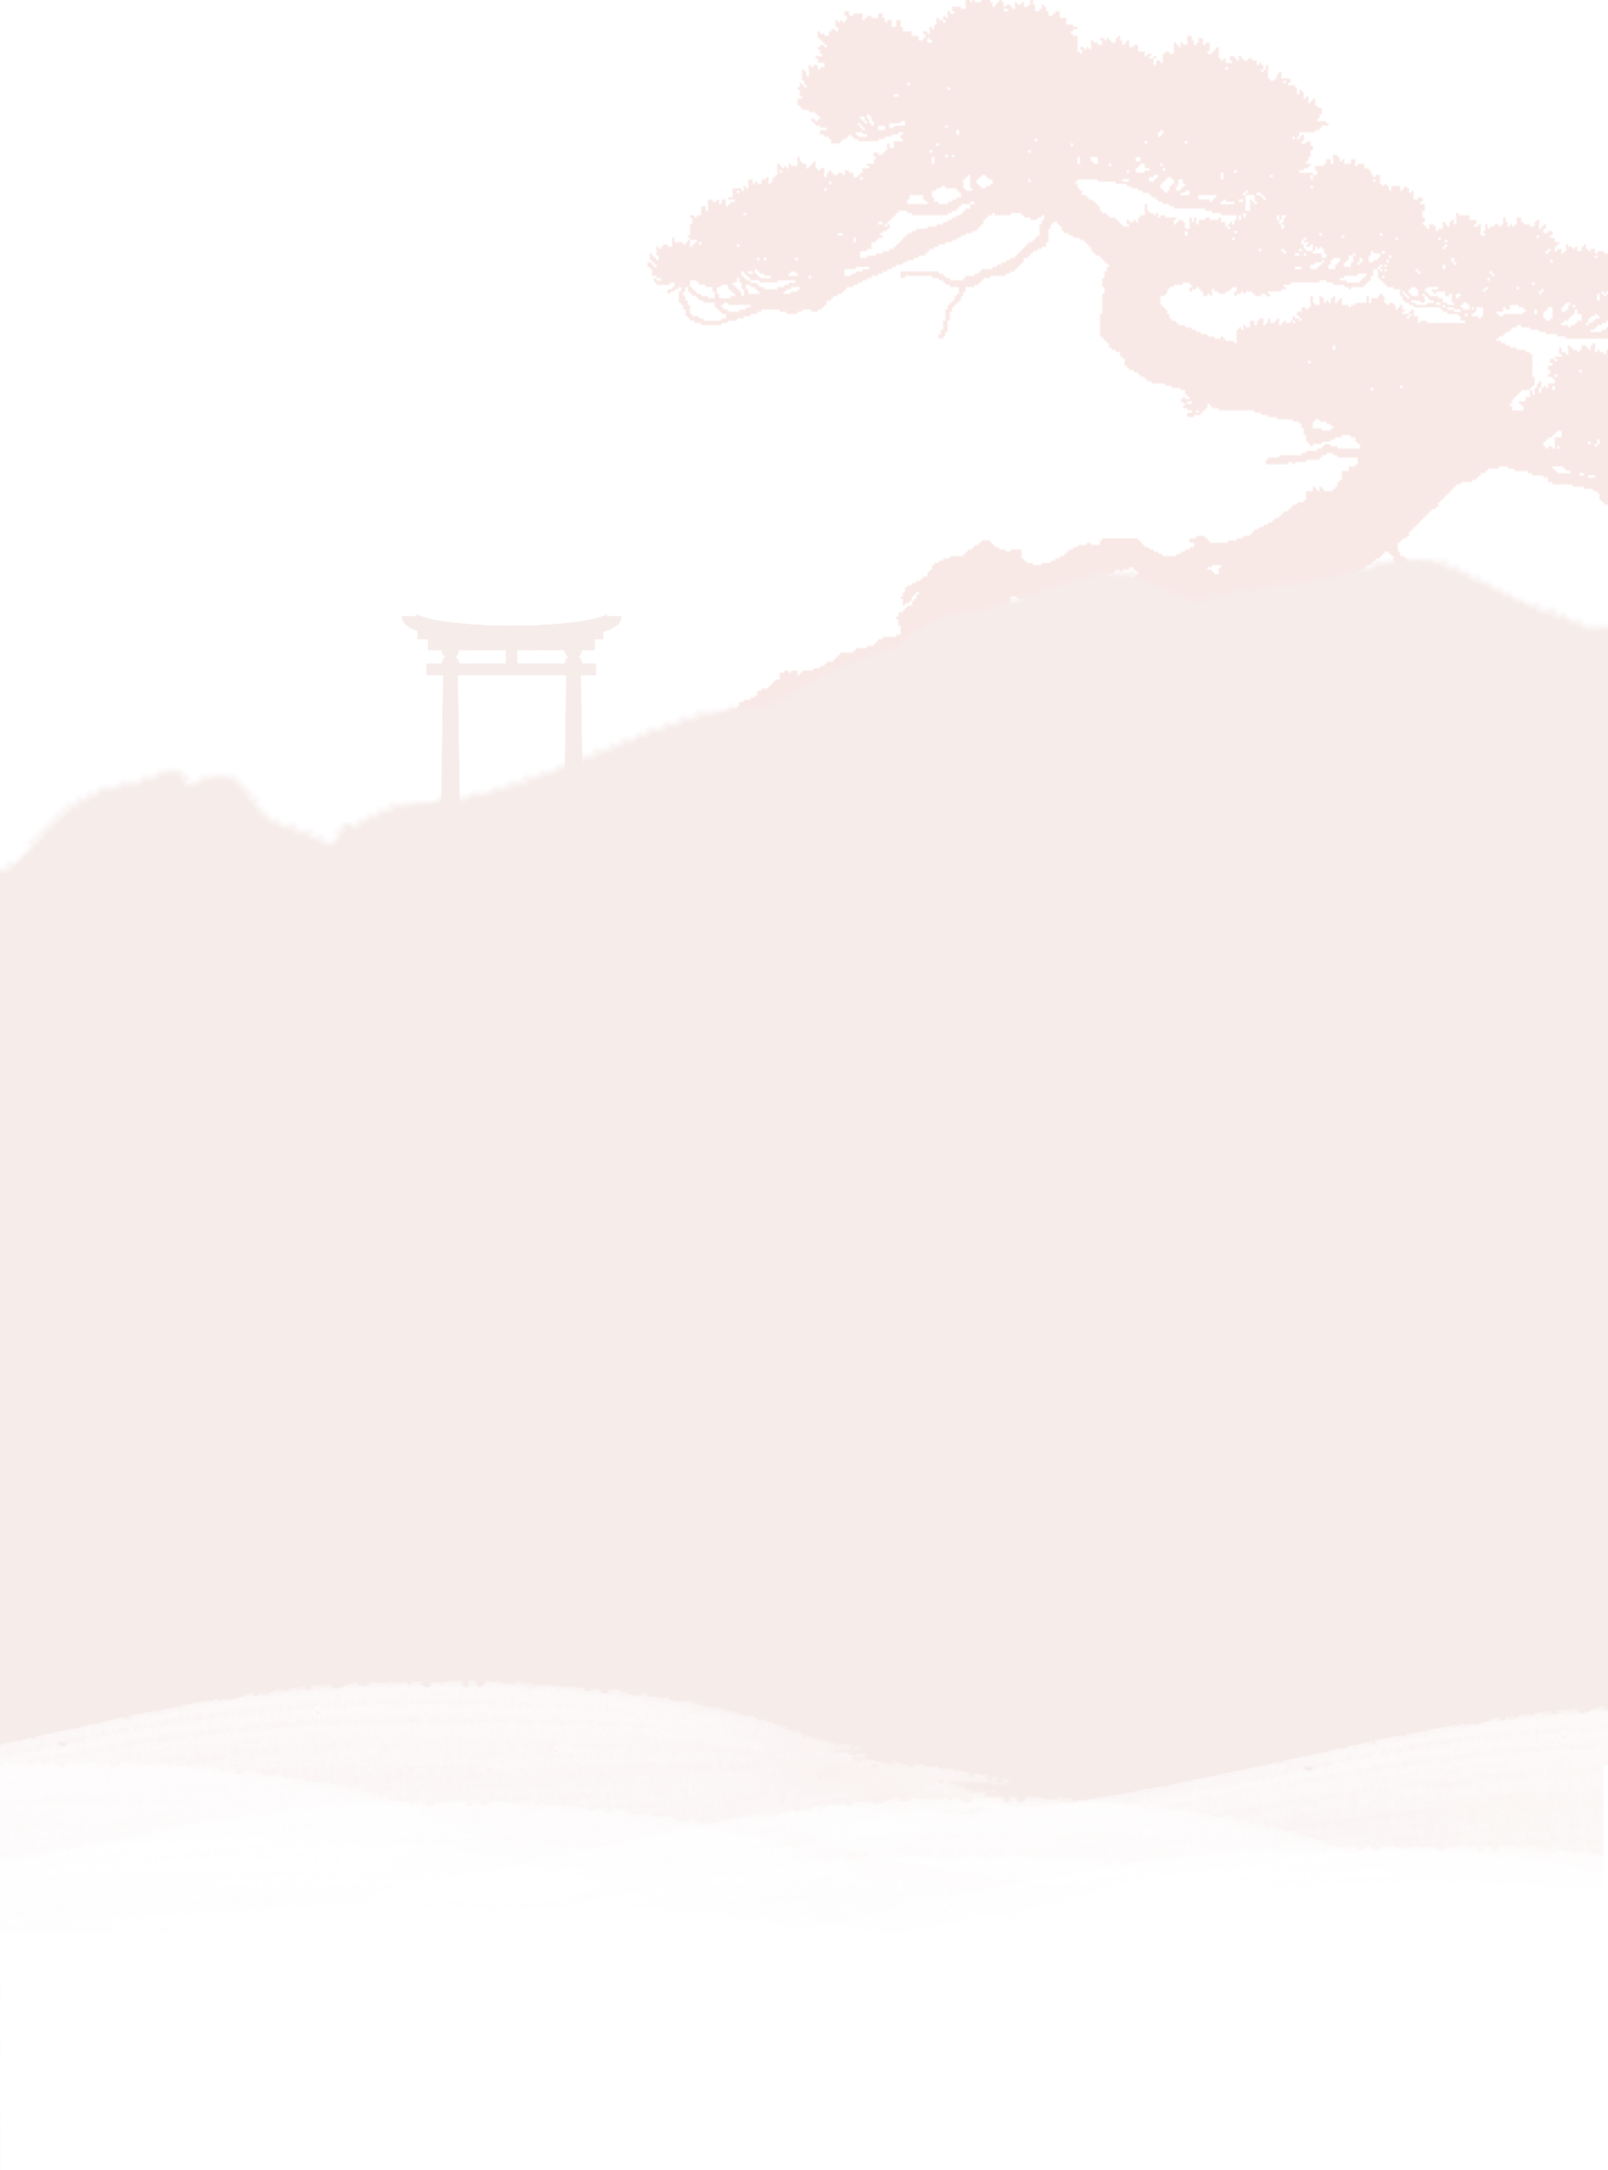
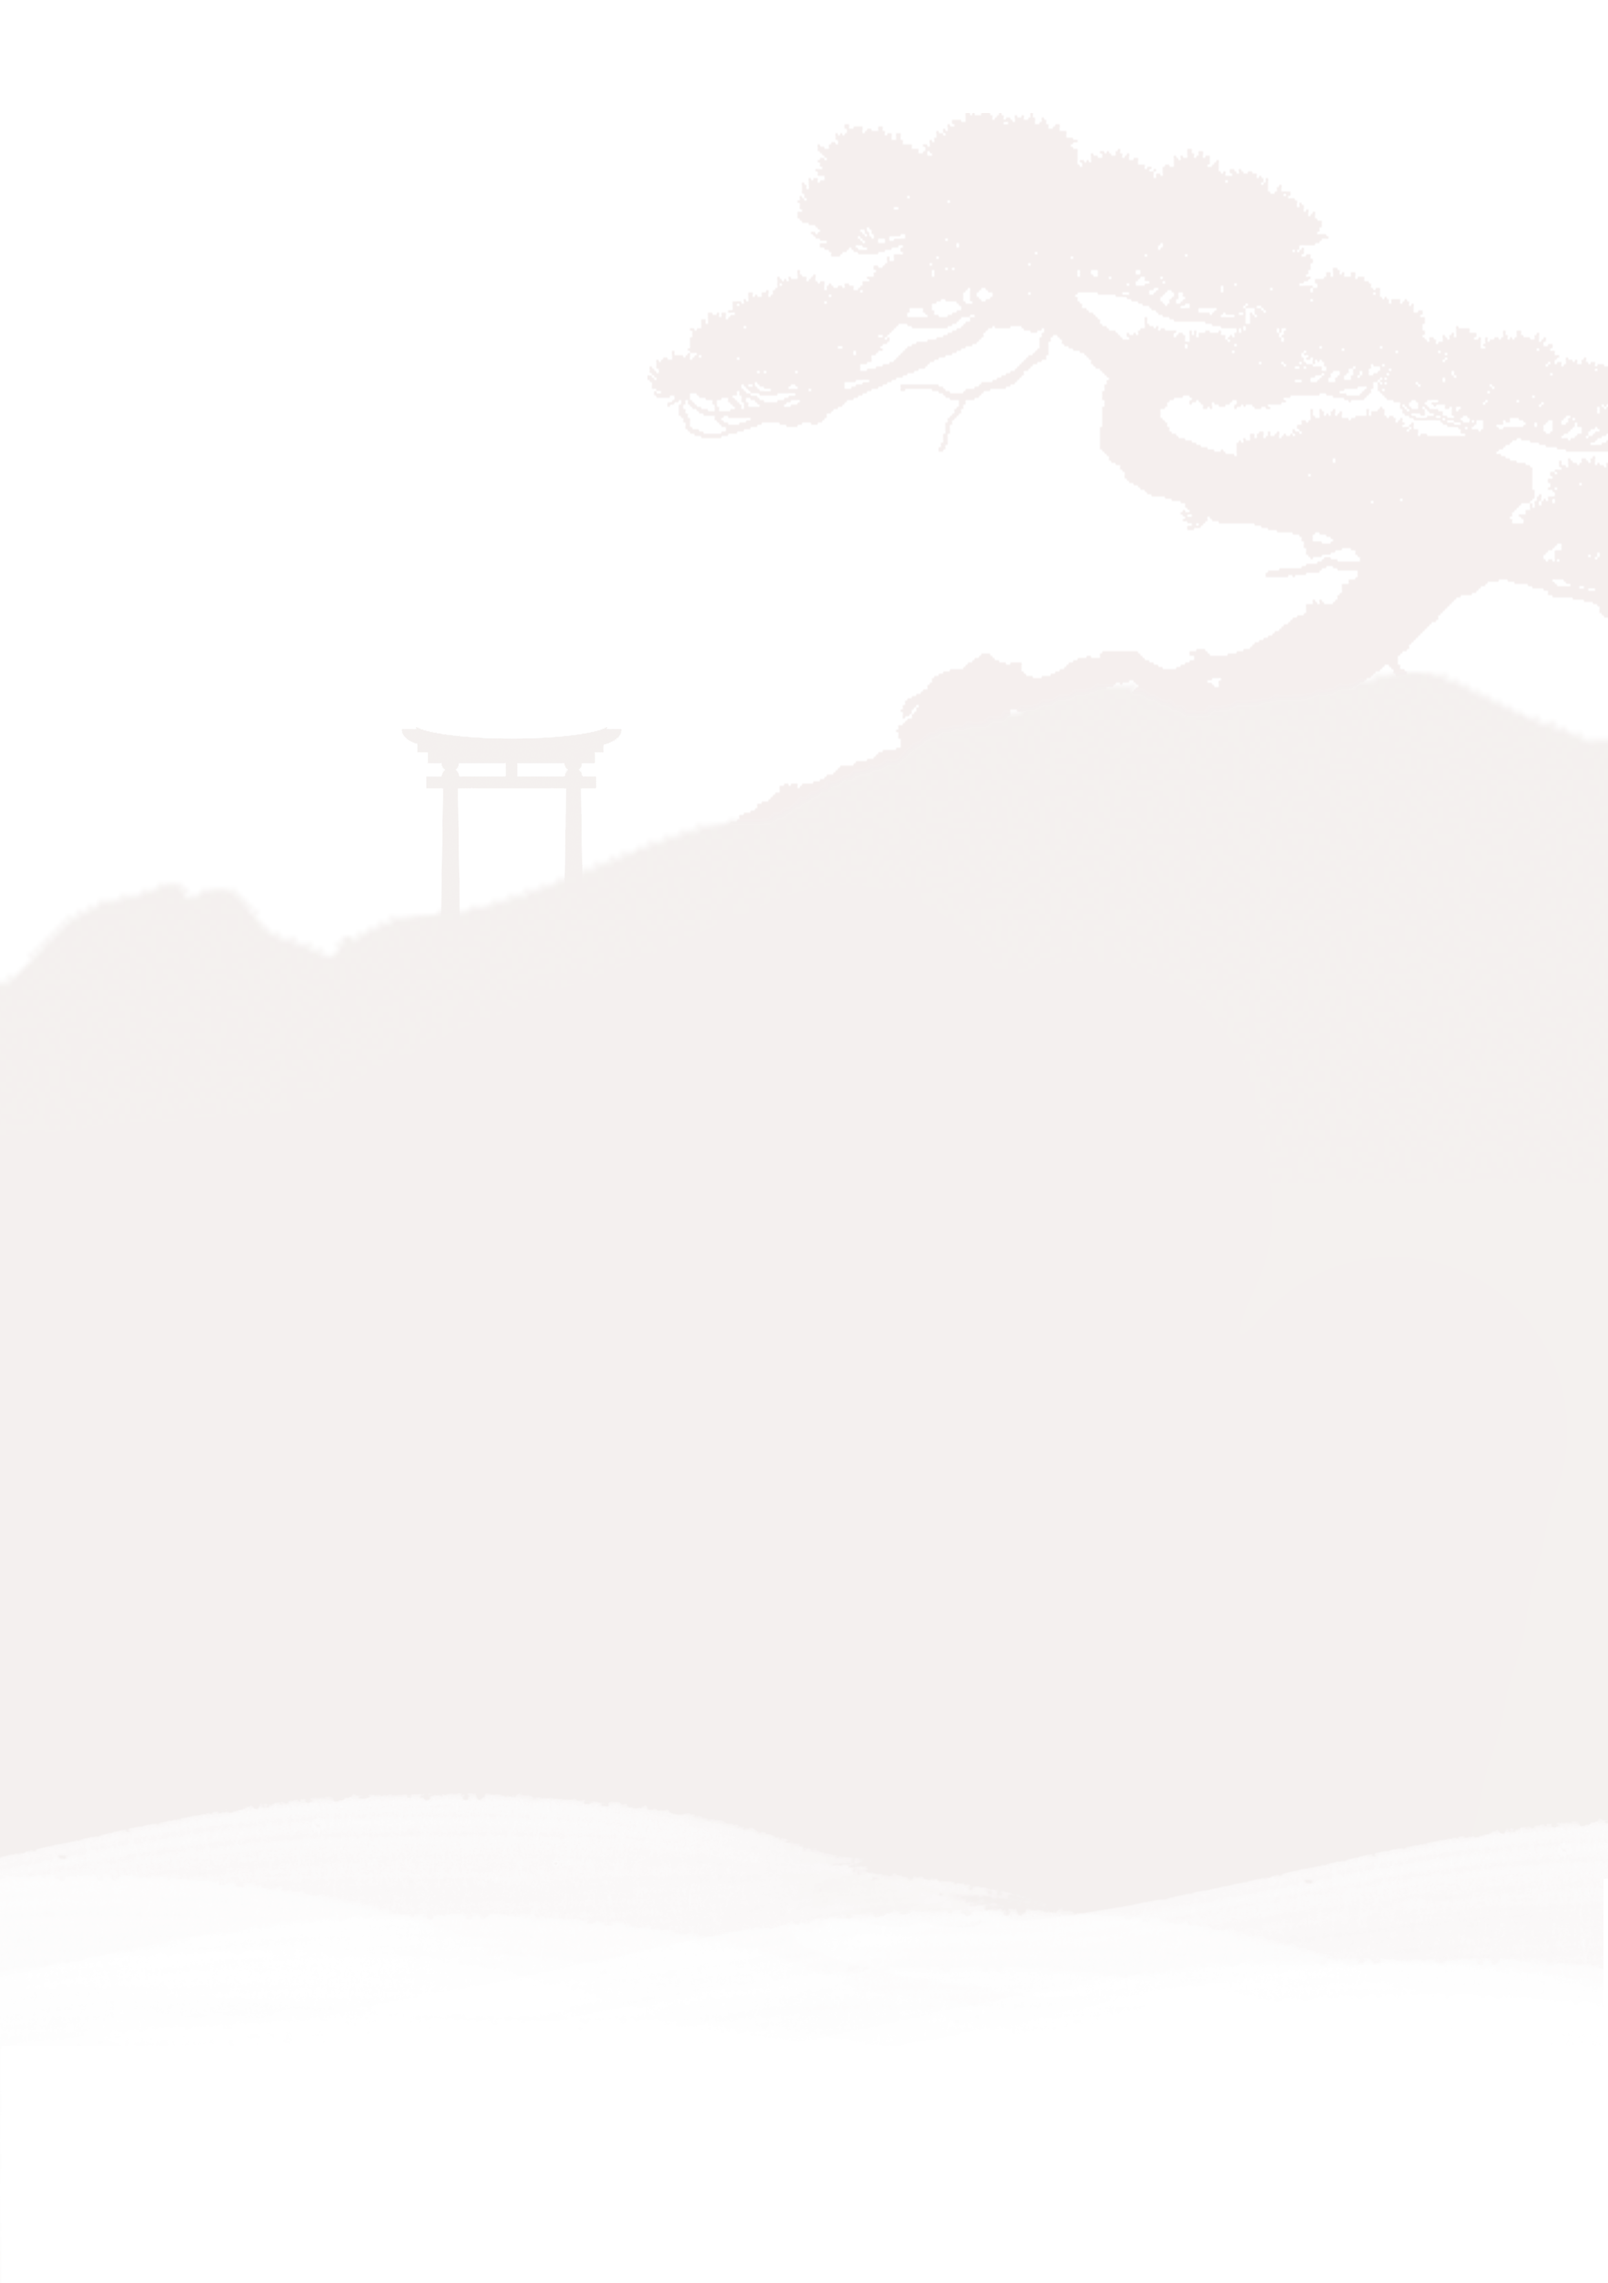
Merge branch 'master' of github.com:batmannastya/mutokukai
# Conflicts:
#	index.htm

diff --git a/css/style.css b/css/style.css
@@ -7,7 +7,9 @@ header {
 }
 
 main {
-    background: url("Tree.png");
+    background-image: url("../Tree.png");
+    background-attachment: scroll;
+    background-size: 100%;
 }
 
 
@@ -145,9 +147,16 @@ strong.j {
 .list_group_item {
     position:relative;
     display:block;
-    padding:.75rem 1.25rem;
+    padding:5px 20px;
     margin-bottom:-1px;
-    background-color:#fff;}
+    color: #2a2f4a;
+    background-color:#b6c4d8;
+    font-weight: bold;
+    font-size: 20px;
+    text-align: center;
+
+
+}
 
 .ot {
     margin-left: 10px;
@@ -160,4 +169,20 @@ strong.j {
     color: #2a2f4a;
     text-shadow: 2px 2px #b6c4d8;
     font-weight: 700;
+}
+
+.card-body {
+    color: #2a2f4a;
+    background-color:#b6c4d8;
+}
+
+.card-title {
+    font-weight: bold;
+    color: white;
+    text-align: center;
+    text-shadow: 1px 1px #464a4e;
+}
+.card-text {
+    text-align: center;
+
 }

diff --git a/index.htm b/index.htm
@@ -86,8 +86,8 @@
             </div>
             <ul class="list-group list-group-flush">
                 <li class="list_group_item">+38(066)212-90-26</li>
-                <li class="list_group_item"><br></li>
                 <li class="list_group_item">tymfear@gmail.com</li>
+                <li class="list_group_item"><br></li>
             </ul>
         </div>
         <div class="card d-inline-block ot" style="width: 20rem;">
@@ -100,8 +100,8 @@
             </div>
             <ul class="list-group list-group-flush">
                 <li class="list_group_item">+38(095)259-77-08</li>
-                <li class="list_group_item"><br></li>
                 <li class="list_group_item">varan_com@ukr.net</li>
+                <li class="list_group_item"><br></li>
             </ul>
         </div>
     </div>
